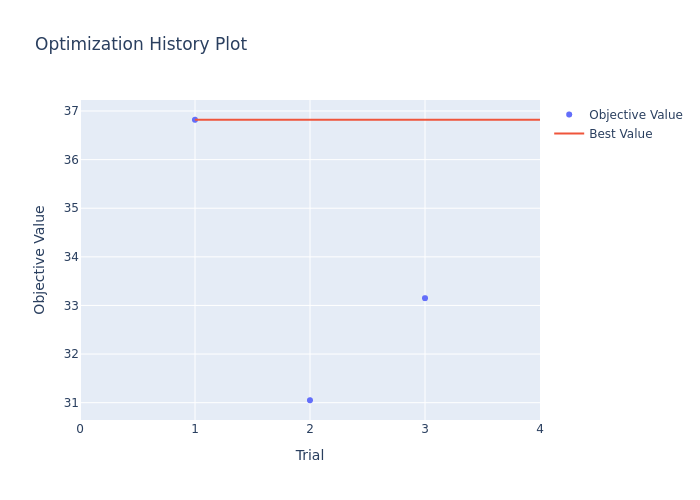
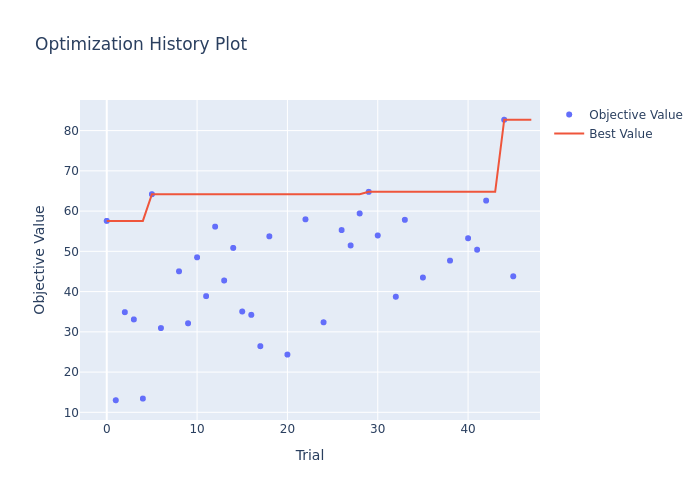
Модифицированная гибридная реализация

diff --git a/noprop_example.py b/noprop_example.py
@@ -45,9 +45,9 @@ config: Dict[str, Any] = {
     "num_workers": 2,
 }
 
-STUDY_NAME = "find_params_v5"
-LR_TRIALS = [5e-2, 1e-2, 2e-3]
-ETA_LOSS_WEIGHT_TRIALS = [0.5, 1.0, 1.5]
+STUDY_NAME = "find_params_v6"
+LR_TRIALS = [0.1, 1e-2, 1e-3, 1e-4]
+ETA_LOSS_WEIGHT_TRIALS = [0.5, 1.0, 1.5, 2.0]
 EMBED_WD_TRIALS = [1e-5, 1e-6, 1e-7]
 
 # --- 2. Helper Functions ---
@@ -445,17 +445,12 @@ def objective(trial: optuna.trial.Trial) -> float:
 
 def write_plots(study):
     #You can visualize results if needed (requires pip install optuna-dashboard or plotly)
-    try:
-        fig1 = optuna.visualization.plot_optimization_history(study)
-        #fig1.show(renderer="browser")  # откроется в браузере
-        fig1.write_image("opt_history.png")
-        fig2 = optuna.visualization.plot_param_importances(study)
-        #fig2.show(renderer="browser")
-        fig2.write_image("param_importance.png")
-    except ImportError:
-        print("\nInstall plotly and kaleido to visualize Optuna results: pip install plotly kaleido")
-    except Exception as e_vis:
-        print(f"Could not plot Optuna results: {e_vis}")
+    fig1 = optuna.visualization.plot_optimization_history(study)
+    #fig1.show(renderer="browser")  # откроется в браузере
+    fig1.write_image("opt_history.png")
+    fig2 = optuna.visualization.plot_param_importances(study)
+    #fig2.show(renderer="browser")
+    fig2.write_image("param_importance.png")
 
 # --- Функция для полного обучения (Запускает основной цикл) ---
 def run_full_training(config: Dict[str, Any]):
@@ -616,7 +611,7 @@ def run_full_training(config: Dict[str, Any]):
 # --- Основной блок ---
 if __name__ == "__main__":
 
-    RUN_HPO = True # Установите True для запуска Optuna
+    RUN_HPO = False # Установите True для запуска Optuna
 
     if RUN_HPO:
         print("--- Starting Hyperparameter Optimization using Optuna ---")
@@ -675,10 +670,10 @@ if __name__ == "__main__":
         # --- Параметры для полного прогона гибридной модели ---
         # Основываемся на лучших параметрах предыдущего успешного запуска
         # и добавляем LAMBDA_GLOBAL
-        hybrid_config['LR'] = 1e-3 # Попробуем снова 1e-3 с планировщиком
-        hybrid_config['ETA_LOSS_WEIGHT'] = 0.5 # Вес для MSE(eps)
+        hybrid_config['LR'] = 0.01 # Попробуем снова 1e-3 с планировщиком
+        hybrid_config['ETA_LOSS_WEIGHT'] = 2.0 # Вес для MSE(eps)
         hybrid_config['LAMBDA_GLOBAL'] = 1.0 # Вес для MSE(u_y) - НОВЫЙ, можно тюнить
-        hybrid_config['EMBED_WD'] = 1e-5 # Маленький WD для эмбеддингов
+        hybrid_config['EMBED_WD'] = 1e-7 # Маленький WD для эмбеддингов
         hybrid_config['WEIGHT_DECAY'] = 1e-3 # WD для остального
 
         # Параметры полного прогона

diff --git a/algorithm.md b/algorithm.md
@@ -1,6 +1,6 @@
-# Modified NoProp Algorithm: Mathematical Formulas (Working Implementation)
+# Modified NoProp Algorithm: Mathematical Formulas (Final Hybrid Implementation)
 
-**Note:** The formulas below describe the *modified* NoProp-DT implementation that achieved successful results (e.g., 99.01% on MNIST) in our experiments. This version **deviates significantly** from the original paper ("NOPROP: TRAINING...", arXiv:2403.13502v1), particularly in the prediction target of the blocks, the inference mechanism, and the input to the classifier during training. These modifications were necessary to achieve stable and effective learning in our setup.
+**Note:** The formulas below describe the *final, successful hybrid* NoProp-DT implementation that achieved **99.40% accuracy on MNIST** in our experiments. This version deviates significantly from the original paper ("NOPROP: TRAINING...", arXiv:2403.13502v1) and also refines the intermediate "predict noise" version. Key changes include a **hybrid loss function for the blocks** and training the classifier on reconstructed clean embeddings.
 
 **Notation:**
 * `t`: Time step index, typically from 1 to T (for coefficients like alpha_t) or 0 to T (for alpha_bar_t). Code often uses 0-based index `t_idx = t-1`.
@@ -10,13 +10,16 @@
 * `z_t`: Noisy representation at step `t` in the *forward* process `q`. $z_0$ is the (theoretical) clean embedding, $z_T$ is near pure noise. The inference process also generates states denoted by `z`, running from $z_T$ down to $z_0$.
 * $\alpha_t, \bar{\alpha}_t, \beta_t$: Noise schedule parameters.
 * $\epsilon, \epsilon_{target}$: Gaussian noise $\mathcal{N}(0, I)$.
-* $\hat{\epsilon}_{\theta_t}(z, x)`: Neural network block (parameterized by `theta_t`), predicting **noise $\epsilon$** (replaces $\hat{u}_{\theta_t}$).
+* $\hat{\epsilon}_{\theta_t}(z, x)`: Neural network block (parameterized by `theta_t`), predicting **noise $\epsilon$**.
+* $\hat{u}_t$: Clean embedding reconstructed from $z_{t-1}$ and $\hat{\epsilon}_{\theta_t}$.
 * $\hat{p}_{\theta_{out}}(y|z)`: Final classifier (parameterized by `theta_out`).
 * `q(...)`: Forward noising process (known).
 * `p(...)`: Reverse denoising/generation process (learned).
-* $\mathcal{N}(z | \mu, \sigma^2 I)$: Normal (Gaussian) distribution with mean vector $\mu$ and diagonal covariance matrix $\sigma^2 I$.
+* $\mathcal{N}(z | \mu, \sigma^2 I)$: Normal (Gaussian) distribution.
+* $\eta_1$: Hyperparameter `ETA_LOSS_WEIGHT` (Weight for noise MSE loss).
+* $\eta_2$: Hyperparameter `LAMBDA_GLOBAL` (Weight for target MSE loss).
 
-## 1. Noise Schedule (Same as Original)
+## 1. Noise Schedule (Same as Previous Working Version)
 
 A noise schedule determines how noise is added over T steps. We use `alpha_bar_t` (cumulative product of `alpha_t`) derived from a cosine schedule.
 
@@ -26,69 +29,71 @@ A noise schedule determines how noise is added over T steps. We use `alpha_bar_t
 
 ## 2. Forward Process `q` (Noising - For Training Sampling)
 
-Used to generate noisy inputs `z_{t-1}` for training block `t` and the reconstructed $\hat{u}_T$ for training the classifier.
+Used to generate noisy inputs `z_{t-1}` for training block `t` and for reconstructing $\hat{u}_T$ when training the classifier.
 
 * **Distribution of noisy embedding `z_t` given clean `u_y`:**
     $$ q(z_t | y) = \mathcal{N}(z_t | \sqrt{\bar{\alpha}_t} u_y, (1 - \bar{\alpha}_t) I) $$
-* **Sampling:** To get `z_{t-1}` for training block `t` (predicting noise $\epsilon$ added from $t-1 \to t$):
-    1. Sample $\epsilon \sim \mathcal{N}(0, I)$.
-    2. Compute $z_{t-1} = \sqrt{\bar{\alpha}_{t-1}} u_y + \sqrt{1 - \bar{\alpha}_{t-1}} \epsilon$.
+* **Sampling:** To get `z_{t-1}` for training block `t`:
+    1.  Sample $\epsilon \sim \mathcal{N}(0, I)$.
+    2.  Compute $z_{t-1} = \sqrt{\bar{\alpha}_{t-1}} u_y + \sqrt{1 - \bar{\alpha}_{t-1}} \epsilon$.
 
-## 3. Training Objective (Modified)
+## 3. Training Objective (Hybrid)
 
-The model parameters ($\theta_t$ for blocks, $\theta_{out}$ for classifier, embedding weights) are optimized by minimizing a combined loss function using gradient descent (AdamW). The update follows the Algorithm 1 structure (outer `t` loop, updates within batch loop).
+Model parameters ($\theta_t$ for blocks, $\theta_{out}$ for classifier, embedding weights) are optimized using AdamW and a combined loss. Training follows an outer loop over blocks `t` and an inner loop over batches. Updates use gradients from the combined loss after a single `.backward()` call.
 
 * **Total Loss (per batch, for combined update):**
-    $$ L_{total} = L_{classify} + \sum_{t=1}^{T} L_{denoise, t} $$
-    *(Note: In the outer loop structure, only one $L_{denoise, t}$ and the $L_{classify}$ contribute to the gradient for a given block's optimizer step, but $L_{classify}$ contributes to the final layer/embedding optimizer step in every batch iteration).*
-    *Implementation:* Our working code used a combined `.backward()` call on `weighted_loss_t + classify_loss`.
+    $$ L_{total} = L_{classify} + L_{block, t} $$
+    *(Where $L_{block, t}$ is the hybrid loss for the currently trained block `t`. Gradients from $L_{total}$ update both the block's parameters $\theta_t$ (via its optimizer `optimizer_t`) and the classifier/embedding parameters (via `optimizer_final`)).*
 
-* **Denoising Loss (for block `t`, target $\epsilon$):**
-    $$ L_{denoise, t} = \eta \mathbb{E}_{y, \epsilon} \left[ || \hat{\epsilon}_{\theta_t}(z_{t-1}, x) - \epsilon ||^2 \right] $$
+* **Hybrid Block Loss (for block `t`):** This combines a local noise prediction objective and a global target reconstruction objective.
+    $$ L_{block, t} = \eta_1 L_{local, t} + \eta_2 L_{global, t} $$
     Where:
-        * $\epsilon \sim \mathcal{N}(0, I)$ is the sampled noise (target).
-        * $z_{t-1} = \sqrt{\bar{\alpha}_{t-1}} u_y + \sqrt{1 - \bar{\alpha}_{t-1}} \epsilon$ is the input to the block.
-        * $\hat{\epsilon}_{\theta_t}$ is the noise predicted by block `t` (network indexed `t-1` in code).
-        * $\eta$ is the hyperparameter `ETA_LOSS_WEIGHT` (e.g., 0.5 in the best run). Uniform weighting across `t` was used (no complex SNR-based weight).
+    * **Local Noise Prediction Loss:**
+        $$ L_{local, t} = \mathbb{E}_{y, \epsilon} \left[ || \hat{\epsilon}_{\theta_t}(z_{t-1}, x) - \epsilon ||^2 \right] $$
+        * $\epsilon \sim \mathcal{N}(0, I)$ is the target noise.
+        * $z_{t-1} = \sqrt{\bar{\alpha}_{t-1}} u_y + \sqrt{1 - \bar{\alpha}_{t-1}} \epsilon$ is the input (using `u_y.detach()`).
+        * $\hat{\epsilon}_{\theta_t}$ is the noise predicted by block `t`.
+        * $\eta_1$ is `ETA_LOSS_WEIGHT` (best found: **2.0**).
+    * **Global Target Reconstruction Loss:**
+        $$ L_{global, t} = \mathbb{E}_{y, \epsilon} \left[ || \hat{u}_t - u_y ||^2 \right] $$
+        * $\hat{u}_t = (z_{t-1} - \sqrt{1 - \bar{\alpha}_{t-1}} \hat{\epsilon}_{\theta_t}) / \sqrt{\bar{\alpha}_{t-1}}$ is the clean embedding reconstructed using the block's noise prediction $\hat{\epsilon}_{\theta_t}$ (requires gradients w.r.t. $\hat{\epsilon}_{\theta_t}$).
+        * $u_y$ is the target clean embedding (use `u_y.detach()` here).
+        * $\eta_2$ is `LAMBDA_GLOBAL` (best found: **1.0**).
 
-* **Classification Loss (Target $\hat{u}_T$):**
+* **Classification Loss (Same as before, Target $\hat{u}_T$):**
     $$ L_{classify} = \mathbb{E}_{y, \epsilon_{T-1}} [ -\log \hat{p}_{\theta_{out}}(y | \hat{u}_T.detach()) ] $$
-    Where:
-        * $\epsilon_{T-1} \sim \mathcal{N}(0, I)$.
-        * $z_{T-1} = \sqrt{\bar{\alpha}_{T-1}} u_y + \sqrt{1 - \bar{\alpha}_{T-1}} \epsilon_{T-1}$.
-        * $\hat{\epsilon}_T = \hat{\epsilon}_{\theta_T}(z_{T-1}, x)$ is the noise predicted by the *last* block (index `T-1`).
-        * $\hat{u}_T = (z_{T-1} - \sqrt{1 - \bar{\alpha}_{T-1}} \hat{\epsilon}_T) / \sqrt{\bar{\alpha}_{T-1}}$ is the reconstructed clean embedding (predicted $z_0$).
-        * `.detach()` prevents gradients flowing into block `T-1` from this loss.
+    Where $\hat{u}_T$ is the clean embedding reconstructed using the *last* block's noise prediction $\hat{\epsilon}_T$.
 
-## 4. Reverse Process `p` (Inference - Modified DDPM-like Step)
+## 4. Reverse Process `p` (Inference - DDPM-like Step)
 
-Generates a clean embedding prediction $z_0$ starting from pure noise $z_T$.
+Generates a clean embedding prediction $z_0$ starting from pure noise $z_T$. (This process remains unchanged from the previous working version).
 
 * **Initialization:** $z_T \sim \mathcal{N}(0, I)$.
 * **Iteration:** For `t` from `T` down to `1`:
-    1. Sample noise $\mathbf{z}' \sim \mathcal{N}(0, I)$ (if $t > 1$), else $\mathbf{z}' = 0$.
-    2. Predict noise using block `t`: $\hat{\epsilon} = \hat{\epsilon}_{\theta_t}(z_t, x)$ (using `model.blocks[t-1]` in code, which takes $z_t$ as input in the inference function).
-    3. Calculate conditional mean:
-       $$ \mu_{t-1}(z_t, x) = \frac{1}{\sqrt{\alpha_t}} \left( z_t - \frac{\beta_t}{\sqrt{1 - \bar{\alpha}_t}} \hat{\epsilon} \right) $$
-    4. Get conditional variance:
-       $$ \sigma_t^2 = \tilde{\beta}_t = \frac{1 - \bar{\alpha}_{t-1}}{1 - \bar{\alpha}_t} \beta_t $$
-       (Use $\sigma_t^2 = 0$ if $t=1$).
-    5. Sample previous state:
-       $$ z_{t-1} = \mu_{t-1}(z_t, x) + \sigma_t \mathbf{z}' $$
+    1.  Sample noise $\mathbf{z}' \sim \mathcal{N}(0, I)$ (if $t > 1$), else $\mathbf{z}' = 0$.
+    2.  Predict noise using block `t`: $\hat{\epsilon} = \hat{\epsilon}_{\theta_t}(z_t, x)$.
+    3.  Calculate conditional mean:
+        $$ \mu_{t-1}(z_t, x) = \frac{1}{\sqrt{\alpha_t}} \left( z_t - \frac{\beta_t}{\sqrt{1 - \bar{\alpha}_t}} \hat{\epsilon} \right) $$
+    4.  Get conditional variance:
+        $$ \sigma_t^2 = \tilde{\beta}_t = \frac{1 - \bar{\alpha}_{t-1}}{1 - \bar{\alpha}_t} \beta_t $$
+        (Use $\sigma_t^2 = 0$ if $t=1$).
+    5.  Sample previous state:
+        $$ z_{t-1} = \mu_{t-1}(z_t, x) + \sigma_t \mathbf{z}' $$
 * **Final Output:** $z_0$. This $z_0$ is then fed to the classifier.
 
-## 5. Coefficients for Inference (Modified - DDPM-like)
+## 5. Coefficients for Inference (DDPM-like)
 
-The inference process requires these parameters from the noise schedule:
+The inference process requires these parameters from the noise schedule: (Unchanged from previous working version)
 * $\alpha_t = 1 - \beta_t$
 * $\beta_t$
 * $\bar{\alpha}_t = \prod_{i=1}^t \alpha_i$
 * $\bar{\alpha}_{t-1}$
-* $\sigma_t^2 = \tilde{\beta}_t = \frac{1 - \bar{\alpha}_{t-1}}{1 - \bar{\alpha}_t} \beta_t$ (Posterior variance, often precomputed)
+* $\sigma_t^2 = \tilde{\beta}_t = \frac{1 - \bar{\alpha}_{t-1}}{1 - \bar{\alpha}_t} \beta_t$ (Posterior variance)
 
-*(The coefficients $a_t, b_t, c_t$ from the original NoProp paper are **not used** in this modified inference process).*
+*(The coefficients $a_t, b_t, c_t$ from the original NoProp paper are **not used**).*
 
 ## 6. Classifier Parameterization (Input Change)
 
+(Unchanged from previous working version)
 * The classifier $\hat{p}_{\theta_{out}}(y|...)$ remains a standard linear layer followed by Softmax (implicitly included in `nn.CrossEntropyLoss`).
 * **Key Change:** During **training**, it takes the *reconstructed clean embedding* $\hat{u}_T$ as input. During **inference**, it takes the final *denoised output* $z_0$ from the reverse process.

diff --git a/readme.md b/readme.md
@@ -6,7 +6,7 @@ This repository contains an experimental PyTorch implementation exploring the **
 
 The goal of NoProp is to train neural networks without relying on traditional end-to-end backpropagation. Instead, it trains network layers (blocks) independently using a local denoising objective inspired by diffusion models.
 
-**Disclaimer:** This is an educational implementation attempt based on the paper. Achieving stable training and high accuracy required **significant deviations from the original method** described in the paper, particularly regarding the denoising target and classification mechanism. This implementation does not guarantee exact replication of the original work but demonstrates the feasibility of a modified approach.
+**Disclaimer:** This is an educational implementation attempt based on the paper. Achieving stable training and high accuracy required **significant deviations from the original method** described in the paper, particularly regarding the denoising target, the block loss function, and the classification mechanism. This implementation demonstrates the feasibility of a modified, hybrid approach.
 
 ## Source Paper
 
@@ -23,54 +23,47 @@ The goal of NoProp is to train neural networks without relying on traditional en
 
 * **Problems & Modifications in this Implementation:**
     * Training blocks to predict the clean `u_y` proved unstable and ineffective.
-    * **Key Change 1:** The objective of the blocks was changed to predict the **added noise $\epsilon$**, similar to standard diffusion models (DDPM, VDM, CARD). Denoising loss became MSE between predicted and actual noise.
-    * **Key Change 2:** The classifier was trained on the **predicted clean embedding $\hat{u}_T$** (reconstructed from $z_{T-1}$ and predicted $\hat{\epsilon}_T$), instead of the noisy sample $z_T$.
-    * **Key Change 3:** Inference was modified to a **DDPM-like reverse process** using the predicted noise $\epsilon$.
+    * **Key Change 1:** The objective of the blocks was changed to predict the **added noise $\epsilon$**, similar to standard diffusion models (DDPM, VDM, CARD).
+    * **Key Change 2 (Hybrid Block Loss):** The loss for updating block `t` became a **combination** of local noise prediction ($MSE(\hat{\epsilon}, \epsilon)$) and a global target reconstruction loss ($MSE(\hat{u}_t, u_y)$), where $\hat{u}_t$ is the clean embedding reconstructed using the predicted $\hat{\epsilon}$.
+    * **Key Change 3:** The classifier was trained on the **predicted clean embedding $\hat{u}_T$** (reconstructed from $z_{T-1}$ and predicted $\hat{\epsilon}_T$), instead of the noisy sample $z_T$.
+    * **Key Change 4:** Inference was modified to a **DDPM-like reverse process** using the predicted noise $\epsilon$.
 
-## Implementation Details (Final Working Configuration)
+## Implementation Details (Final Working Configuration - Hybrid)
 
 * **Framework:** PyTorch
-* **Method:** Modified NoProp-DT (predicting noise $\epsilon$, classifying from $\hat{u}_T$)
+* **Method:** Modified NoProp-DT with **Hybrid Block Loss** (predicting noise $\epsilon$, classifying from $\hat{u}_T$).
 * **Dataset:** MNIST
-* **Architecture:** Based on Figure 7 (left) from the paper's appendix (CNN for image, MLP for embedding, combined layers). Block output is predicted noise $\epsilon$ (`embed_dim`).
-* **Embeddings:** Learned (`dim=20`), orthogonal initialization, embedding norm clipping (`max_norm_embed=50.0`), very low weight decay (`embed_wd=1e-7`).
-* **Noise Schedule:** Cosine schedule (`alphas_bar`), T=10 steps.
-* **Denoising Loss Weight:** Uniform weight scaled by `ETA_LOSS_WEIGHT=0.5`.
-* **Inference:** Implemented DDPM-like reverse steps using predicted $\epsilon$.
-* **Optimizer:** AdamW with initial `LR=0.01` for all parameters, `Weight Decay=1e-3` for blocks/classifier.
-* **Scheduler:** `CosineAnnealingLR` (`T_max=100`, `eta_min=1e-6`) applied to all optimizers.
+* **Architecture:** CNN+MLP blocks (`DenoisingBlockPaper`) predicting noise $\epsilon$.
+* **Block Loss:** Combined $L_{block\_t} = \eta_1 MSE(\hat{\epsilon}, \epsilon) + \eta_2 MSE(\hat{u}_t, u_y)$, where $\hat{u}_t$ is reconstructed from $\hat{\epsilon}$. Classifier loss $L_{classify}=CE(\text{classifier}(\hat{u}_T), y)$. Combined update used for optimizers.
+* **Embeddings:** Learned (`dim=20`), orthogonal initialization, norm clipping (`max_norm_embed=50.0`), very low weight decay (`embed_wd=1e-7`).
+* **Noise Schedule:** Cosine schedule, T=10 steps.
+* **Loss Weights:** `ETA_LOSS_WEIGHT`($\eta_1$, for MSE on $\epsilon$) = 2.0, `LAMBDA_GLOBAL`($\eta_2$, for MSE on $\hat{u}_t$) = 1.0. *(Based on final successful run parameters)*
+* **Inference:** DDPM-like reverse steps using predicted $\epsilon$.
+* **Optimizer:** AdamW with initial `LR=0.01`, `Weight Decay=1e-3` for blocks/classifier.
+* **Scheduler:** `CosineAnnealingLR` (`T_max=100`, `eta_min=1e-6`).
 * **Stabilization:** Gradient clipping (`max_norm=1.0`).
 * **Epochs:** Trained up to 100 epochs with early stopping (`patience=15`).
 
-## Current Status & Experimental Results *(Updated Apr 12, 2025)*
+## Current Status & Experimental Results *(Updated Apr 14, 2025)*
 
-After extensive debugging and significant modifications to the original algorithm (predicting noise $\epsilon$, classifying from $\hat{u}_T$), hyperparameter optimization identified an effective configuration (`LR=0.01`, `ETA=0.5`, `EMBED_WD=1e-7`).
+After extensive debugging, significant modifications (predicting noise $\epsilon$, classifying from $\hat{u}_T$, implementing a hybrid block loss), and hyperparameter tuning, a successful training configuration was identified.
 
-A full training run (up to 100 epochs) was performed using these parameters with a `CosineAnnealingLR` scheduler and early stopping.
+A full training run (up to 100 epochs) was performed using the best found parameters (`LR=0.01` initial, `ETA=2.0`, `LAMBDA=1.0`, `EMBED_WD=1e-7`), with a `CosineAnnealingLR` scheduler and early stopping.
 
-## Current Status & Experimental Results *(Updated Apr 12, 2025)*
+* **Training Observations:** The training process was stable. Both denoising and classification losses decreased appropriately without collapsing. The embedding norm remained controlled.
+* **Final Result:** The model achieved an excellent **best test accuracy of 99.40%** on MNIST (reached around epoch 85-100, before early stopping triggered at epoch 100 based on patience).
 
-After extensive debugging and significant modifications to the original algorithm (predicting noise $\epsilon$, classifying from the predicted clean embedding $\hat{u}_T$), hyperparameter optimization (via Optuna over 10 epochs) identified a promising configuration (`LR=0.01`, `ETA=0.5`, `EMBED_WD=1e-7`).
+The training progress during the final run is visualized below:
 
-The hyperparameter optimization history is visualized below (showing the accuracy achieved by different parameter combinations within 10 epochs):
+![Final Hybrid Training Progress](training_progress_hybrid.png)
+*(Ensure training_progress_hybrid.png reflects the latest successful run and is in the correct path relative to README.md)*
 
-![Optuna Optimization History](opt_history.png)
-
-A full training run (up to 100 epochs) was performed using these best parameters with a `CosineAnnealingLR` scheduler and early stopping (`patience=15`).
-
-* **Training Observations:** The training process was stable. `Classify Loss` decreased significantly, `AvgDenoiseLoss` (MSE on $\epsilon$) remained active and stable, and the embedding norm was controlled.
-* **Final Result:** The model achieved a **best test accuracy of 99.01%** on MNIST (reached around epoch 80, before early stopping triggered at epoch 95).
-
-The training progress during the final run (showing average training losses and test accuracy per epoch) is visualized below:
-
-![Final Training Progress Plot](training_accuracy_plot.png)
 ## Conclusions from Experiments
 
-* Reproducing the high accuracy reported in the paper using the method *as described* (predicting $u_y$) was unsuccessful in this implementation.
-* Significant **modifications** (changing the prediction target to noise $\epsilon$, altering the classifier input to $\hat{u}_T$) were **essential** to achieve effective and stable learning.
-* The modified approach, combined with careful hyperparameter tuning (using HPO), appropriate LR scheduling, and stabilization techniques (clipping), successfully trained a model achieving **high accuracy (99.01%)** on MNIST.
-* This result demonstrates the potential of backpropagation-free, diffusion-inspired training methods, although it required deviating significantly from the specific formulation presented in the NoProp paper but aligning more closely with established diffusion model practices (like DDPM, VDM, CARD).
-* The small remaining gap to the paper's reported result (>99.4%) might be due to further subtle implementation differences, architectural details, or hyperparameter settings.
+* Reproducing the results using the method *as described* in the original NoProp paper (predicting $u_y$) was unsuccessful in this implementation due to instability and collapsing losses.
+* Significant **modifications** were essential: changing the prediction target to noise $\epsilon$, altering the classifier input to the reconstructed $\hat{u}_T$, and crucially, implementing a **hybrid block loss** combining local noise prediction and global target reconstruction ($L_{block\_t} = \eta_1 MSE(\hat{\epsilon}, \epsilon) + \eta_2 MSE(\hat{u}_t, u_y)$).
+* This **modified hybrid approach**, combined with careful hyperparameter tuning, LR scheduling, and stabilization techniques, successfully trained a model achieving **high accuracy (99.40%)** on MNIST, matching the performance levels mentioned in the source paper but using a different underlying mechanism.
+* This result demonstrates the strong potential of backpropagation-free, diffusion-inspired training, although achieving it required significant adaptation and hybridization of the originally proposed NoProp method, aligning it more closely with established diffusion model practices while incorporating elements of global target guidance locally.
 
 ## Setup
 
@@ -87,7 +80,7 @@ The training progress during the final run (showing average training losses and 
     ./setup_env.sh
     ```
 6.  Activate the environment: `source noprop_env/bin/activate`
-7.  Run the script (e.g., for a full run): `python noprop_example.py` (make sure `RUN_HPO = False` inside the script).
+7.  Run the script (e.g., for a full run): `python noprop_example.py` (make sure `RUN_HPO = False` inside the script and the correct final hyperparameters are set in the `else` block).
 
 **Option 2: Manual Installation**
 1.  Ensure you have Python 3 installed.
